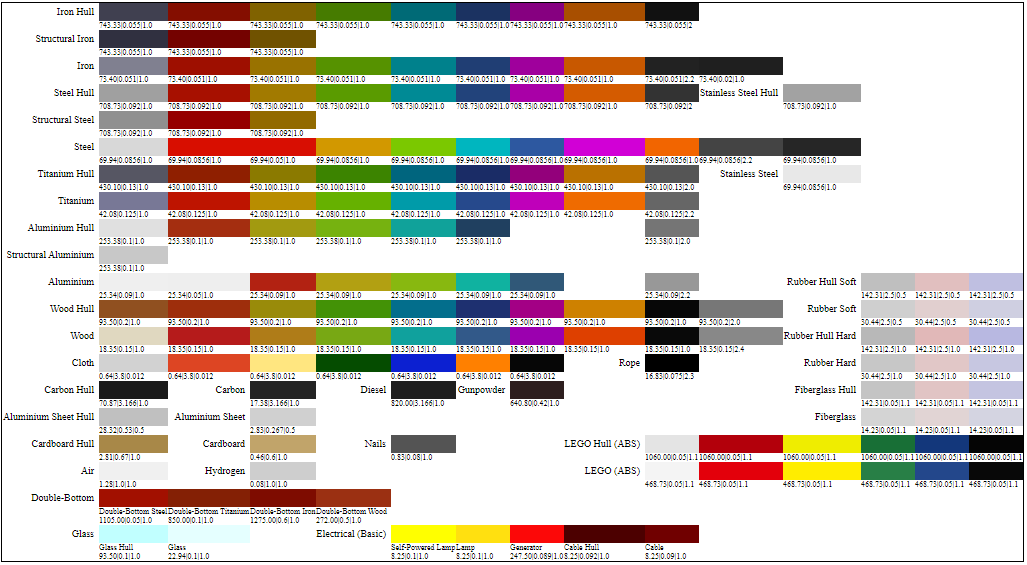
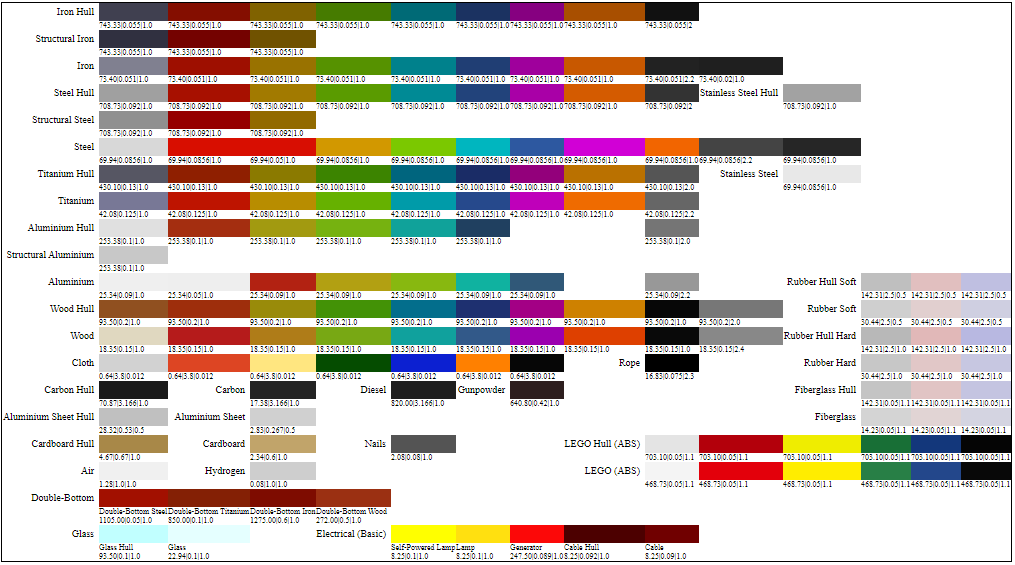
Adjusted LEGO materials; rebuilt template

diff --git a/Scripts/materials_template.html b/Scripts/materials_template.html
@@ -1,1 +1,1 @@
-<html><head><title>Materials Template</title><style>tr.border_top td { border-top:1pt solid black;}</style></head><body><table style='border: 1px solid black' cellpadding=0 cellspacing=1><tr><td valign='middle' align='right' style='padding-right:5px;font-size:10px;'>Lamps</td><td bgcolor='#FFE010'class='border_top' style='width: 50px;'>&nbsp;</td><td bgcolor='#FFE011'class='border_top' style='width: 50px;'>&nbsp;</td><td bgcolor='#DFE010'class='border_top' style='width: 50px;'>&nbsp;</td><td bgcolor='#DFE011'class='border_top' style='width: 50px;'>&nbsp;</td><td bgcolor='#EFE010'class='border_top' style='width: 50px;'>&nbsp;</td><td bgcolor='#EFE011'class='border_top' style='width: 50px;'>&nbsp;</td><td bgcolor='#FFE018'class='border_top' style='width: 50px;'>&nbsp;</td><tr><td/><td style='font-size:8px;'>High Lamp WT</td><td style='font-size:8px;'>High Lamp</td><td style='font-size:8px;'>Low Lamp WT</td><td style='font-size:8px;'>Low Lamp</td><td style='font-size:8px;'>Porthole WT</td><td style='font-size:8px;'>Porthole</td><td style='font-size:8px;'>HR Lamp WT</td></tr><tr><td/><td style='font-size:8px;'></td><td style='font-size:8px;'></td><td style='font-size:8px;'></td><td style='font-size:8px;'></td><td style='font-size:8px;'></td><td style='font-size:8px;'></td><td style='font-size:8px;'></td></tr><tr><td valign='middle' align='right' style='padding-right:5px;font-size:10px;'>Self-Powered Lamps</td><td bgcolor='#FFFF00'class='border_top' style='width: 50px;'>&nbsp;</td><td bgcolor='#FFFF01'class='border_top' style='width: 50px;'>&nbsp;</td><td bgcolor='#DFFF00'class='border_top' style='width: 50px;'>&nbsp;</td><td bgcolor='#DFFF01'class='border_top' style='width: 50px;'>&nbsp;</td><td bgcolor='#EFFF00'class='border_top' style='width: 50px;'>&nbsp;</td><td bgcolor='#EFFF01'class='border_top' style='width: 50px;'>&nbsp;</td><tr><td/><td style='font-size:8px;'>High Lamp WT</td><td style='font-size:8px;'>High Lamp</td><td style='font-size:8px;'>Low Lamp WT</td><td style='font-size:8px;'>Low Lamp</td><td style='font-size:8px;'>Porthole WT</td><td style='font-size:8px;'>Porthole</td></tr><tr><td/><td style='font-size:8px;'></td><td style='font-size:8px;'></td><td style='font-size:8px;'></td><td style='font-size:8px;'></td><td style='font-size:8px;'></td><td style='font-size:8px;'></td></tr><tr><td valign='middle' align='right' style='padding-right:5px;font-size:10px;'>Generators</td><td bgcolor='#FC0808'class='border_top' style='width: 50px;'>&nbsp;</td><td bgcolor='#FC1010'class='border_top' style='width: 50px;'>&nbsp;</td><tr><td/><td style='font-size:8px;'>Generator</td><td style='font-size:8px;'>HR Generator</td></tr><tr><td/><td style='font-size:8px;'></td><td style='font-size:8px;'></td></tr><tr><td valign='middle' align='right' style='padding-right:5px;font-size:10px;'>Cables</td><td bgcolor='#4C0000'class='border_top' style='width: 50px;'>&nbsp;</td><td bgcolor='#700000'class='border_top' style='width: 50px;'>&nbsp;</td><tr><td/><td style='font-size:8px;'>Cable Hull</td><td style='font-size:8px;'>Cable</td></tr><tr><td/><td style='font-size:8px;'></td><td style='font-size:8px;'></td></tr><tr><td valign='middle' align='right' style='padding-right:5px;font-size:10px;'>Switches</td><td bgcolor='#804000'class='border_top' style='width: 50px;'>&nbsp;</td><td bgcolor='#104000'class='border_top' style='width: 50px;'>&nbsp;</td><td bgcolor='#884800'class='border_top' style='width: 50px;'>&nbsp;</td><td bgcolor='#184800'class='border_top' style='width: 50px;'>&nbsp;</td><td bgcolor='#886000'class='border_top' style='width: 50px;'>&nbsp;</td><td bgcolor='#186000'class='border_top' style='width: 50px;'>&nbsp;</td><tr><td/><td style='font-size:8px;'>Toggle Switch ON</td><td style='font-size:8px;'>Toggle Switch OFF</td><td style='font-size:8px;'>Push Switch ON</td><td style='font-size:8px;'>Push Switch OFF</td><td style='font-size:8px;'>Water Switch ON</td><td style='font-size:8px;'>Water Switch OFF</td></tr><tr><td/><td style='font-size:8px;'></td><td style='font-size:8px;'></td><td style='font-size:8px;'></td><td style='font-size:8px;'></td><td style='font-size:8px;'></td><td style='font-size:8px;'></td></tr><tr><td valign='middle' align='right' style='padding-right:5px;font-size:10px;'>Misc</td><td bgcolor='#FC2020'class='border_top' style='width: 50px;'>&nbsp;</td><td bgcolor='#209010'class='border_top' style='width: 50px;'>&nbsp;</td><tr><td/><td style='font-size:8px;'>Heating Element</td><td style='font-size:8px;'>Smoke Emitter</td></tr><tr><td/><td style='font-size:8px;'></td><td style='font-size:8px;'></td></tr></table></body></html>
+<html><head><title>Materials Template</title><style>tr.border_top td { border-top:1pt solid black;}</style></head><body><table style='border: 1px solid black' cellpadding=0 cellspacing=0><tr><td valign='middle' align='right' style='padding-right:5px;font-size:10px;'>Iron Hull</td><td bgcolor='#404050'class='border_top' style='width: 50px;'>&nbsp;</td><td bgcolor='#840E00'class='border_top' style='width: 50px;'>&nbsp;</td><td bgcolor='#806200'class='border_top' style='width: 50px;'>&nbsp;</td><td bgcolor='#467B00'class='border_top' style='width: 50px;'>&nbsp;</td><td bgcolor='#006A76'class='border_top' style='width: 50px;'>&nbsp;</td><td bgcolor='#1B3261'class='border_top' style='width: 50px;'>&nbsp;</td><td bgcolor='#860080'class='border_top' style='width: 50px;'>&nbsp;</td><td bgcolor='#A84F00'class='border_top' style='width: 50px;'>&nbsp;</td><td bgcolor='#111111'class='border_top' style='width: 50px;'>&nbsp;</td><tr><td/><td style='font-size:8px;'></td><td style='font-size:8px;'></td><td style='font-size:8px;'></td><td style='font-size:8px;'></td><td style='font-size:8px;'></td><td style='font-size:8px;'></td><td style='font-size:8px;'></td><td style='font-size:8px;'></td><td style='font-size:8px;'></td></tr><tr><td/><td style='font-size:8px;'>743.33|0.055|1.0</td><td style='font-size:8px;'>743.33|0.055|1.0</td><td style='font-size:8px;'>743.33|0.055|1.0</td><td style='font-size:8px;'>743.33|0.055|1.0</td><td style='font-size:8px;'>743.33|0.055|1.0</td><td style='font-size:8px;'>743.33|0.055|1.0</td><td style='font-size:8px;'>743.33|0.055|1.0</td><td style='font-size:8px;'>743.33|0.055|1.0</td><td style='font-size:8px;'>743.33|0.055|2</td></tr><tr><td valign='middle' align='right' style='padding-right:5px;font-size:10px;'>Structural Iron</td><td bgcolor='#303040'class='border_top' style='width: 50px;'>&nbsp;</td><td bgcolor='#740200'class='border_top' style='width: 50px;'>&nbsp;</td><td bgcolor='#705200'class='border_top' style='width: 50px;'>&nbsp;</td><tr><td/><td style='font-size:8px;'></td><td style='font-size:8px;'></td><td style='font-size:8px;'></td></tr><tr><td/><td style='font-size:8px;'>743.33|0.055|1.0</td><td style='font-size:8px;'>743.33|0.055|1.0</td><td style='font-size:8px;'>743.33|0.055|1.0</td></tr><tr><td valign='middle' align='right' style='padding-right:5px;font-size:10px;'>Iron</td><td bgcolor='#808090'class='border_top' style='width: 50px;'>&nbsp;</td><td bgcolor='#9E0F00'class='border_top' style='width: 50px;'>&nbsp;</td><td bgcolor='#997200'class='border_top' style='width: 50px;'>&nbsp;</td><td bgcolor='#569200'class='border_top' style='width: 50px;'>&nbsp;</td><td bgcolor='#00818C'class='border_top' style='width: 50px;'>&nbsp;</td><td bgcolor='#203E74'class='border_top' style='width: 50px;'>&nbsp;</td><td bgcolor='#9F009C'class='border_top' style='width: 50px;'>&nbsp;</td><td bgcolor='#C85800'class='border_top' style='width: 50px;'>&nbsp;</td><td bgcolor='#222222'class='border_top' style='width: 50px;'>&nbsp;</td><td bgcolor='#1F1F1F'class='border_top' style='width: 50px;'>&nbsp;</td><tr><td/><td style='font-size:8px;'></td><td style='font-size:8px;'></td><td style='font-size:8px;'></td><td style='font-size:8px;'></td><td style='font-size:8px;'></td><td style='font-size:8px;'></td><td style='font-size:8px;'></td><td style='font-size:8px;'></td><td style='font-size:8px;'></td><td style='font-size:8px;'></td></tr><tr><td/><td style='font-size:8px;'>73.40|0.051|1.0</td><td style='font-size:8px;'>73.40|0.051|1.0</td><td style='font-size:8px;'>73.40|0.051|1.0</td><td style='font-size:8px;'>73.40|0.051|1.0</td><td style='font-size:8px;'>73.40|0.051|1.0</td><td style='font-size:8px;'>73.40|0.051|1.0</td><td style='font-size:8px;'>73.40|0.051|1.0</td><td style='font-size:8px;'>73.40|0.051|1.0</td><td style='font-size:8px;'>73.40|0.051|2.2</td><td style='font-size:8px;'>73.40|0.02|1.0</td></tr><tr><td valign='middle' align='right' style='padding-right:5px;font-size:10px;'>Steel Hull</td><td bgcolor='#A0A0A0'class='border_top' style='width: 50px;'>&nbsp;</td><td bgcolor='#A71000'class='border_top' style='width: 50px;'>&nbsp;</td><td bgcolor='#A27A00'class='border_top' style='width: 50px;'>&nbsp;</td><td bgcolor='#5A9B00'class='border_top' style='width: 50px;'>&nbsp;</td><td bgcolor='#008A95'class='border_top' style='width: 50px;'>&nbsp;</td><td bgcolor='#22437B'class='border_top' style='width: 50px;'>&nbsp;</td><td bgcolor='#A900A7'class='border_top' style='width: 50px;'>&nbsp;</td><td bgcolor='#D45B00'class='border_top' style='width: 50px;'>&nbsp;</td><td bgcolor='#333333'class='border_top' style='width: 50px;'>&nbsp;</td><td valign='middle' align='right' style='padding-right:5px;font-size:10px;'>Stainless Steel Hull</td><td bgcolor='#A2A2A2'class='border_top' style='width: 50px;'>&nbsp;</td><tr><td/><td style='font-size:8px;'></td><td style='font-size:8px;'></td><td style='font-size:8px;'></td><td style='font-size:8px;'></td><td style='font-size:8px;'></td><td style='font-size:8px;'></td><td style='font-size:8px;'></td><td style='font-size:8px;'></td><td style='font-size:8px;'></td><td/><td style='font-size:8px;'></td></tr><tr><td/><td style='font-size:8px;'>708.73|0.092|1.0</td><td style='font-size:8px;'>708.73|0.092|1.0</td><td style='font-size:8px;'>708.73|0.092|1.0</td><td style='font-size:8px;'>708.73|0.092|1.0</td><td style='font-size:8px;'>708.73|0.092|1.0</td><td style='font-size:8px;'>708.73|0.092|1.0</td><td style='font-size:8px;'>708.73|0.092|1.0</td><td style='font-size:8px;'>708.73|0.092|1.0</td><td style='font-size:8px;'>708.73|0.092|2</td><td/><td style='font-size:8px;'>708.73|0.092|1.0</td></tr><tr><td valign='middle' align='right' style='padding-right:5px;font-size:10px;'>Structural Steel</td><td bgcolor='#909090'class='border_top' style='width: 50px;'>&nbsp;</td><td bgcolor='#950000'class='border_top' style='width: 50px;'>&nbsp;</td><td bgcolor='#926A00'class='border_top' style='width: 50px;'>&nbsp;</td><tr><td/><td style='font-size:8px;'></td><td style='font-size:8px;'></td><td style='font-size:8px;'></td></tr><tr><td/><td style='font-size:8px;'>708.73|0.092|1.0</td><td style='font-size:8px;'>708.73|0.092|1.0</td><td style='font-size:8px;'>708.73|0.092|1.0</td></tr><tr><td valign='middle' align='right' style='padding-right:5px;font-size:10px;'>Steel</td><td bgcolor='#D8D8D8'class='border_top' style='width: 50px;'>&nbsp;</td><td bgcolor='#D80E00'class='border_top' style='width: 50px;'>&nbsp;</td><td bgcolor='#D80E02'class='border_top' style='width: 50px;'>&nbsp;</td><td bgcolor='#D29800'class='border_top' style='width: 50px;'>&nbsp;</td><td bgcolor='#7BC800'class='border_top' style='width: 50px;'>&nbsp;</td><td bgcolor='#00B6BF'class='border_top' style='width: 50px;'>&nbsp;</td><td bgcolor='#2D58A0'class='border_top' style='width: 50px;'>&nbsp;</td><td bgcolor='#D100D6'class='border_top' style='width: 50px;'>&nbsp;</td><td bgcolor='#F26500'class='border_top' style='width: 50px;'>&nbsp;</td><td bgcolor='#444444'class='border_top' style='width: 50px;'>&nbsp;</td><td bgcolor='#262626'class='border_top' style='width: 50px;'>&nbsp;</td><tr><td/><td style='font-size:8px;'></td><td style='font-size:8px;'></td><td style='font-size:8px;'></td><td style='font-size:8px;'></td><td style='font-size:8px;'></td><td style='font-size:8px;'></td><td style='font-size:8px;'></td><td style='font-size:8px;'></td><td style='font-size:8px;'></td><td style='font-size:8px;'></td><td style='font-size:8px;'></td></tr><tr><td/><td style='font-size:8px;'>69.94|0.0856|1.0</td><td style='font-size:8px;'>69.94|0.0856|1.0</td><td style='font-size:8px;'>69.94|0.05|1.0</td><td style='font-size:8px;'>69.94|0.0856|1.0</td><td style='font-size:8px;'>69.94|0.0856|1.0</td><td style='font-size:8px;'>69.94|0.0856|1.0</td><td style='font-size:8px;'>69.94|0.0856|1.0</td><td style='font-size:8px;'>69.94|0.0856|1.0</td><td style='font-size:8px;'>69.94|0.0856|1.0</td><td style='font-size:8px;'>69.94|0.0856|2.2</td><td style='font-size:8px;'>69.94|0.0856|1.0</td></tr><tr><td valign='middle' align='right' style='padding-right:5px;font-size:10px;'>Titanium Hull</td><td bgcolor='#565663'class='border_top' style='width: 50px;'>&nbsp;</td><td bgcolor='#8F1F00'class='border_top' style='width: 50px;'>&nbsp;</td><td bgcolor='#8B7A00'class='border_top' style='width: 50px;'>&nbsp;</td><td bgcolor='#3C8400'class='border_top' style='width: 50px;'>&nbsp;</td><td bgcolor='#00657E'class='border_top' style='width: 50px;'>&nbsp;</td><td bgcolor='#1A2C66'class='border_top' style='width: 50px;'>&nbsp;</td><td bgcolor='#93007B'class='border_top' style='width: 50px;'>&nbsp;</td><td bgcolor='#BA7100'class='border_top' style='width: 50px;'>&nbsp;</td><td bgcolor='#555555'class='border_top' style='width: 50px;'>&nbsp;</td><td valign='middle' align='right' style='padding-right:5px;font-size:10px;'>Stainless Steel</td><td bgcolor='#E8E8E8'class='border_top' style='width: 50px;'>&nbsp;</td><tr><td/><td style='font-size:8px;'></td><td style='font-size:8px;'></td><td style='font-size:8px;'></td><td style='font-size:8px;'></td><td style='font-size:8px;'></td><td style='font-size:8px;'></td><td style='font-size:8px;'></td><td style='font-size:8px;'></td><td style='font-size:8px;'></td><td/><td style='font-size:8px;'></td></tr><tr><td/><td style='font-size:8px;'>430.10|0.13|1.0</td><td style='font-size:8px;'>430.10|0.13|1.0</td><td style='font-size:8px;'>430.10|0.13|1.0</td><td style='font-size:8px;'>430.10|0.13|1.0</td><td style='font-size:8px;'>430.10|0.13|1.0</td><td style='font-size:8px;'>430.10|0.13|1.0</td><td style='font-size:8px;'>430.10|0.13|1.0</td><td style='font-size:8px;'>430.10|0.13|1.0</td><td style='font-size:8px;'>430.10|0.13|2.0</td><td/><td style='font-size:8px;'>69.94|0.0856|1.0</td></tr><tr><td valign='middle' align='right' style='padding-right:5px;font-size:10px;'>Titanium</td><td bgcolor='#787896'class='border_top' style='width: 50px;'>&nbsp;</td><td bgcolor='#BE1400'class='border_top' style='width: 50px;'>&nbsp;</td><td bgcolor='#B88D00'class='border_top' style='width: 50px;'>&nbsp;</td><td bgcolor='#66B100'class='border_top' style='width: 50px;'>&nbsp;</td><td bgcolor='#009BA9'class='border_top' style='width: 50px;'>&nbsp;</td><td bgcolor='#26498C'class='border_top' style='width: 50px;'>&nbsp;</td><td bgcolor='#BF00BA'class='border_top' style='width: 50px;'>&nbsp;</td><td bgcolor='#EF6B00'class='border_top' style='width: 50px;'>&nbsp;</td><td bgcolor='#666666'class='border_top' style='width: 50px;'>&nbsp;</td><tr><td/><td style='font-size:8px;'></td><td style='font-size:8px;'></td><td style='font-size:8px;'></td><td style='font-size:8px;'></td><td style='font-size:8px;'></td><td style='font-size:8px;'></td><td style='font-size:8px;'></td><td style='font-size:8px;'></td><td style='font-size:8px;'></td></tr><tr><td/><td style='font-size:8px;'>42.08|0.125|1.0</td><td style='font-size:8px;'>42.08|0.125|1.0</td><td style='font-size:8px;'>42.08|0.125|1.0</td><td style='font-size:8px;'>42.08|0.125|1.0</td><td style='font-size:8px;'>42.08|0.125|1.0</td><td style='font-size:8px;'>42.08|0.125|1.0</td><td style='font-size:8px;'>42.08|0.125|1.0</td><td style='font-size:8px;'>42.08|0.125|1.0</td><td style='font-size:8px;'>42.08|0.125|2.2</td></tr><tr><td valign='middle' align='right' style='padding-right:5px;font-size:10px;'>Aluminium Hull</td><td bgcolor='#E0E0E0'class='border_top' style='width: 50px;'>&nbsp;</td><td bgcolor='#A42E10'class='border_top' style='width: 50px;'>&nbsp;</td><td bgcolor='#A29A10'class='border_top' style='width: 50px;'>&nbsp;</td><td bgcolor='#76B210'class='border_top' style='width: 50px;'>&nbsp;</td><td bgcolor='#10A29A'class='border_top' style='width: 50px;'>&nbsp;</td><td bgcolor='#204060'class='border_top' style='width: 50px;'>&nbsp;</td><td style='width: 50px;'>&nbsp;</td><td style='width: 50px;'>&nbsp;</td><td bgcolor='#757575'class='border_top' style='width: 50px;'>&nbsp;</td><tr><td/><td style='font-size:8px;'></td><td style='font-size:8px;'></td><td style='font-size:8px;'></td><td style='font-size:8px;'></td><td style='font-size:8px;'></td><td style='font-size:8px;'></td><td/><td/><td style='font-size:8px;'></td></tr><tr><td/><td style='font-size:8px;'>253.38|0.1|1.0</td><td style='font-size:8px;'>253.38|0.1|1.0</td><td style='font-size:8px;'>253.38|0.1|1.0</td><td style='font-size:8px;'>253.38|0.1|1.0</td><td style='font-size:8px;'>253.38|0.1|1.0</td><td style='font-size:8px;'>253.38|0.1|1.0</td><td/><td/><td style='font-size:8px;'>253.38|0.1|2.0</td></tr><tr><td valign='middle' align='right' style='padding-right:5px;font-size:10px;'>Structural Aluminium</td><td bgcolor='#C8C8C8'class='border_top' style='width: 50px;'>&nbsp;</td><tr><td/><td style='font-size:8px;'></td></tr><tr><td/><td style='font-size:8px;'>253.38|0.1|1.0</td></tr><tr><td valign='middle' align='right' style='padding-right:5px;font-size:10px;'>Aluminium</td><td bgcolor='#EFEFEF'class='border_top' style='width: 50px;'>&nbsp;</td><td bgcolor='#EEEEEE'class='border_top' style='width: 50px;'>&nbsp;</td><td bgcolor='#B22212'class='border_top' style='width: 50px;'>&nbsp;</td><td bgcolor='#B2A012'class='border_top' style='width: 50px;'>&nbsp;</td><td bgcolor='#88B810'class='border_top' style='width: 50px;'>&nbsp;</td><td bgcolor='#10B2A0'class='border_top' style='width: 50px;'>&nbsp;</td><td bgcolor='#305878'class='border_top' style='width: 50px;'>&nbsp;</td><td style='width: 50px;'>&nbsp;</td><td bgcolor='#989898'class='border_top' style='width: 50px;'>&nbsp;</td><td style='width: 50px;'>&nbsp;</td><td valign='middle' align='right' style='padding-right:5px;font-size:10px;'>Rubber Hull Soft</td><td bgcolor='#BFBFBF'class='border_top' style='width: 50px;'>&nbsp;</td><td bgcolor='#E1BFBF'class='border_top' style='width: 50px;'>&nbsp;</td><td bgcolor='#BFBFE1'class='border_top' style='width: 50px;'>&nbsp;</td><tr><td/><td style='font-size:8px;'></td><td style='font-size:8px;'></td><td style='font-size:8px;'></td><td style='font-size:8px;'></td><td style='font-size:8px;'></td><td style='font-size:8px;'></td><td style='font-size:8px;'></td><td/><td style='font-size:8px;'></td><td/><td/><td style='font-size:8px;'></td><td style='font-size:8px;'></td><td style='font-size:8px;'></td></tr><tr><td/><td style='font-size:8px;'>25.34|0.09|1.0</td><td style='font-size:8px;'>25.34|0.05|1.0</td><td style='font-size:8px;'>25.34|0.09|1.0</td><td style='font-size:8px;'>25.34|0.09|1.0</td><td style='font-size:8px;'>25.34|0.09|1.0</td><td style='font-size:8px;'>25.34|0.09|1.0</td><td style='font-size:8px;'>25.34|0.09|1.0</td><td/><td style='font-size:8px;'>25.34|0.09|2.2</td><td/><td/><td style='font-size:8px;'>142.31|2.5|0.5</td><td style='font-size:8px;'>142.31|2.5|0.5</td><td style='font-size:8px;'>142.31|2.5|0.5</td></tr><tr><td valign='middle' align='right' style='padding-right:5px;font-size:10px;'>Wood Hull</td><td bgcolor='#905020'class='border_top' style='width: 50px;'>&nbsp;</td><td bgcolor='#9E2E0C'class='border_top' style='width: 50px;'>&nbsp;</td><td bgcolor='#998B0A'class='border_top' style='width: 50px;'>&nbsp;</td><td bgcolor='#439206'class='border_top' style='width: 50px;'>&nbsp;</td><td bgcolor='#036E8C'class='border_top' style='width: 50px;'>&nbsp;</td><td bgcolor='#1E3070'class='border_top' style='width: 50px;'>&nbsp;</td><td bgcolor='#A30085'class='border_top' style='width: 50px;'>&nbsp;</td><td bgcolor='#CE8100'class='border_top' style='width: 50px;'>&nbsp;</td><td bgcolor='#070707'class='border_top' style='width: 50px;'>&nbsp;</td><td bgcolor='#777777'class='border_top' style='width: 50px;'>&nbsp;</td><td valign='middle' align='right' style='padding-right:5px;font-size:10px;'>Rubber Soft</td><td bgcolor='#CFCFCF'class='border_top' style='width: 50px;'>&nbsp;</td><td bgcolor='#E1CFCF'class='border_top' style='width: 50px;'>&nbsp;</td><td bgcolor='#CFCFE1'class='border_top' style='width: 50px;'>&nbsp;</td><tr><td/><td style='font-size:8px;'></td><td style='font-size:8px;'></td><td style='font-size:8px;'></td><td style='font-size:8px;'></td><td style='font-size:8px;'></td><td style='font-size:8px;'></td><td style='font-size:8px;'></td><td style='font-size:8px;'></td><td style='font-size:8px;'></td><td style='font-size:8px;'></td><td/><td style='font-size:8px;'></td><td style='font-size:8px;'></td><td style='font-size:8px;'></td></tr><tr><td/><td style='font-size:8px;'>93.50|0.2|1.0</td><td style='font-size:8px;'>93.50|0.2|1.0</td><td style='font-size:8px;'>93.50|0.2|1.0</td><td style='font-size:8px;'>93.50|0.2|1.0</td><td style='font-size:8px;'>93.50|0.2|1.0</td><td style='font-size:8px;'>93.50|0.2|1.0</td><td style='font-size:8px;'>93.50|0.2|1.0</td><td style='font-size:8px;'>93.50|0.2|1.0</td><td style='font-size:8px;'>93.50|0.2|1.0</td><td style='font-size:8px;'>93.50|0.2|2.0</td><td/><td style='font-size:8px;'>30.44|2.5|0.5</td><td style='font-size:8px;'>30.44|2.5|0.5</td><td style='font-size:8px;'>30.44|2.5|0.5</td></tr><tr><td valign='middle' align='right' style='padding-right:5px;font-size:10px;'>Wood</td><td bgcolor='#E0D8C0'class='border_top' style='width: 50px;'>&nbsp;</td><td bgcolor='#B51B1B'class='border_top' style='width: 50px;'>&nbsp;</td><td bgcolor='#AF7C18'class='border_top' style='width: 50px;'>&nbsp;</td><td bgcolor='#78A814'class='border_top' style='width: 50px;'>&nbsp;</td><td bgcolor='#10A19D'class='border_top' style='width: 50px;'>&nbsp;</td><td bgcolor='#325989'class='border_top' style='width: 50px;'>&nbsp;</td><td bgcolor='#9B00AF'class='border_top' style='width: 50px;'>&nbsp;</td><td bgcolor='#DE4000'class='border_top' style='width: 50px;'>&nbsp;</td><td bgcolor='#090909'class='border_top' style='width: 50px;'>&nbsp;</td><td bgcolor='#888888'class='border_top' style='width: 50px;'>&nbsp;</td><td valign='middle' align='right' style='padding-right:5px;font-size:10px;'>Rubber Hull Hard</td><td bgcolor='#B8B8B8'class='border_top' style='width: 50px;'>&nbsp;</td><td bgcolor='#E1B8B8'class='border_top' style='width: 50px;'>&nbsp;</td><td bgcolor='#B8B8E1'class='border_top' style='width: 50px;'>&nbsp;</td><tr><td/><td style='font-size:8px;'></td><td style='font-size:8px;'></td><td style='font-size:8px;'></td><td style='font-size:8px;'></td><td style='font-size:8px;'></td><td style='font-size:8px;'></td><td style='font-size:8px;'></td><td style='font-size:8px;'></td><td style='font-size:8px;'></td><td style='font-size:8px;'></td><td/><td style='font-size:8px;'></td><td style='font-size:8px;'></td><td style='font-size:8px;'></td></tr><tr><td/><td style='font-size:8px;'>18.35|0.15|1.0</td><td style='font-size:8px;'>18.35|0.15|1.0</td><td style='font-size:8px;'>18.35|0.15|1.0</td><td style='font-size:8px;'>18.35|0.15|1.0</td><td style='font-size:8px;'>18.35|0.15|1.0</td><td style='font-size:8px;'>18.35|0.15|1.0</td><td style='font-size:8px;'>18.35|0.15|1.0</td><td style='font-size:8px;'>18.35|0.15|1.0</td><td style='font-size:8px;'>18.35|0.15|1.0</td><td style='font-size:8px;'>18.35|0.15|2.4</td><td/><td style='font-size:8px;'>142.31|2.5|1.0</td><td style='font-size:8px;'>142.31|2.5|1.0</td><td style='font-size:8px;'>142.31|2.5|1.0</td></tr><tr><td valign='middle' align='right' style='padding-right:5px;font-size:10px;'>Cloth</td><td bgcolor='#D2D2D2'class='border_top' style='width: 50px;'>&nbsp;</td><td bgcolor='#DD4523'class='border_top' style='width: 50px;'>&nbsp;</td><td bgcolor='#FFE680'class='border_top' style='width: 50px;'>&nbsp;</td><td bgcolor='#054C00'class='border_top' style='width: 50px;'>&nbsp;</td><td bgcolor='#0C20D1'class='border_top' style='width: 50px;'>&nbsp;</td><td bgcolor='#FF8000'class='border_top' style='width: 50px;'>&nbsp;</td><td bgcolor='#060606'class='border_top' style='width: 50px;'>&nbsp;</td><td valign='middle' align='right' style='padding-right:5px;font-size:10px;'>Rope</td><td bgcolor='#000000'class='border_top' style='width: 50px;'>&nbsp;</td><td style='width: 50px;'>&nbsp;</td><td valign='middle' align='right' style='padding-right:5px;font-size:10px;'>Rubber Hard</td><td bgcolor='#C7C7C7'class='border_top' style='width: 50px;'>&nbsp;</td><td bgcolor='#E1C7C7'class='border_top' style='width: 50px;'>&nbsp;</td><td bgcolor='#C7C7E1'class='border_top' style='width: 50px;'>&nbsp;</td><tr><td/><td style='font-size:8px;'></td><td style='font-size:8px;'></td><td style='font-size:8px;'></td><td style='font-size:8px;'></td><td style='font-size:8px;'></td><td style='font-size:8px;'></td><td style='font-size:8px;'></td><td/><td style='font-size:8px;'></td><td/><td/><td style='font-size:8px;'></td><td style='font-size:8px;'></td><td style='font-size:8px;'></td></tr><tr><td/><td style='font-size:8px;'>0.64|3.8|0.012</td><td style='font-size:8px;'>0.64|3.8|0.012</td><td style='font-size:8px;'>0.64|3.8|0.012</td><td style='font-size:8px;'>0.64|3.8|0.012</td><td style='font-size:8px;'>0.64|3.8|0.012</td><td style='font-size:8px;'>0.64|3.8|0.012</td><td style='font-size:8px;'>0.64|3.8|0.012</td><td/><td style='font-size:8px;'>16.83|0.075|2.3</td><td/><td/><td style='font-size:8px;'>30.44|2.5|1.0</td><td style='font-size:8px;'>30.44|2.5|1.0</td><td style='font-size:8px;'>30.44|2.5|1.0</td></tr><tr><td valign='middle' align='right' style='padding-right:5px;font-size:10px;'>Carbon Hull</td><td bgcolor='#1A1A1A'class='border_top' style='width: 50px;'>&nbsp;</td><td valign='middle' align='right' style='padding-right:5px;font-size:10px;'>Carbon</td><td bgcolor='#232323'class='border_top' style='width: 50px;'>&nbsp;</td><td valign='middle' align='right' style='padding-right:5px;font-size:10px;'>Diesel</td><td bgcolor='#1E1E1E'class='border_top' style='width: 50px;'>&nbsp;</td><td valign='middle' align='right' style='padding-right:5px;font-size:10px;'>Gunpowder</td><td bgcolor='#2E1E1E'class='border_top' style='width: 50px;'>&nbsp;</td><td style='width: 50px;'>&nbsp;</td><td style='width: 50px;'>&nbsp;</td><td style='width: 50px;'>&nbsp;</td><td valign='middle' align='right' style='padding-right:5px;font-size:10px;'>Fiberglass Hull</td><td bgcolor='#C4C4C4'class='border_top' style='width: 50px;'>&nbsp;</td><td bgcolor='#E1C4C4'class='border_top' style='width: 50px;'>&nbsp;</td><td bgcolor='#C4C4E1'class='border_top' style='width: 50px;'>&nbsp;</td><tr><td/><td style='font-size:8px;'></td><td/><td style='font-size:8px;'></td><td/><td style='font-size:8px;'></td><td/><td style='font-size:8px;'></td><td/><td/><td/><td/><td style='font-size:8px;'></td><td style='font-size:8px;'></td><td style='font-size:8px;'></td></tr><tr><td/><td style='font-size:8px;'>70.87|3.166|1.0</td><td/><td style='font-size:8px;'>17.38|3.166|1.0</td><td/><td style='font-size:8px;'>820.00|3.166|1.0</td><td/><td style='font-size:8px;'>640.80|0.42|1.0</td><td/><td/><td/><td/><td style='font-size:8px;'>142.31|0.05|1.1</td><td style='font-size:8px;'>142.31|0.05|1.1</td><td style='font-size:8px;'>142.31|0.05|1.1</td></tr><tr><td valign='middle' align='right' style='padding-right:5px;font-size:10px;'>Aluminium Sheet Hull</td><td bgcolor='#C0C0C0'class='border_top' style='width: 50px;'>&nbsp;</td><td valign='middle' align='right' style='padding-right:5px;font-size:10px;'>Aluminium Sheet</td><td bgcolor='#D0D0D0'class='border_top' style='width: 50px;'>&nbsp;</td><td style='width: 50px;'>&nbsp;</td><td style='width: 50px;'>&nbsp;</td><td style='width: 50px;'>&nbsp;</td><td style='width: 50px;'>&nbsp;</td><td style='width: 50px;'>&nbsp;</td><td style='width: 50px;'>&nbsp;</td><td style='width: 50px;'>&nbsp;</td><td valign='middle' align='right' style='padding-right:5px;font-size:10px;'>Fiberglass</td><td bgcolor='#D4D4D4'class='border_top' style='width: 50px;'>&nbsp;</td><td bgcolor='#E1D4D4'class='border_top' style='width: 50px;'>&nbsp;</td><td bgcolor='#D4D4E1'class='border_top' style='width: 50px;'>&nbsp;</td><tr><td/><td style='font-size:8px;'></td><td/><td style='font-size:8px;'></td><td/><td/><td/><td/><td/><td/><td/><td/><td style='font-size:8px;'></td><td style='font-size:8px;'></td><td style='font-size:8px;'></td></tr><tr><td/><td style='font-size:8px;'>28.32|0.53|0.5</td><td/><td style='font-size:8px;'>2.83|0.267|0.5</td><td/><td/><td/><td/><td/><td/><td/><td/><td style='font-size:8px;'>14.23|0.05|1.1</td><td style='font-size:8px;'>14.23|0.05|1.1</td><td style='font-size:8px;'>14.23|0.05|1.1</td></tr><tr><td valign='middle' align='right' style='padding-right:5px;font-size:10px;'>Cardboard Hull</td><td bgcolor='#A88848'class='border_top' style='width: 50px;'>&nbsp;</td><td valign='middle' align='right' style='padding-right:5px;font-size:10px;'>Cardboard</td><td bgcolor='#C1A46A'class='border_top' style='width: 50px;'>&nbsp;</td><td valign='middle' align='right' style='padding-right:5px;font-size:10px;'>Nails</td><td bgcolor='#545454'class='border_top' style='width: 50px;'>&nbsp;</td><td style='width: 50px;'>&nbsp;</td><td style='width: 50px;'>&nbsp;</td><td valign='middle' align='right' style='padding-right:5px;font-size:10px;'>LEGO Hull (ABS)</td><td bgcolor='#E4E4E4'class='border_top' style='width: 50px;'>&nbsp;</td><td bgcolor='#B3000B'class='border_top' style='width: 50px;'>&nbsp;</td><td bgcolor='#EFED00'class='border_top' style='width: 50px;'>&nbsp;</td><td bgcolor='#186F36'class='border_top' style='width: 50px;'>&nbsp;</td><td bgcolor='#13377B'class='border_top' style='width: 50px;'>&nbsp;</td><td bgcolor='#050505'class='border_top' style='width: 50px;'>&nbsp;</td><tr><td/><td style='font-size:8px;'></td><td/><td style='font-size:8px;'></td><td/><td style='font-size:8px;'></td><td/><td/><td/><td style='font-size:8px;'></td><td style='font-size:8px;'></td><td style='font-size:8px;'></td><td style='font-size:8px;'></td><td style='font-size:8px;'></td><td style='font-size:8px;'></td></tr><tr><td/><td style='font-size:8px;'>4.67|0.67|1.0</td><td/><td style='font-size:8px;'>2.34|0.6|1.0</td><td/><td style='font-size:8px;'>2.08|0.08|1.0</td><td/><td/><td/><td style='font-size:8px;'>703.10|0.05|1.1</td><td style='font-size:8px;'>703.10|0.05|1.1</td><td style='font-size:8px;'>703.10|0.05|1.1</td><td style='font-size:8px;'>703.10|0.05|1.1</td><td style='font-size:8px;'>703.10|0.05|1.1</td><td style='font-size:8px;'>703.10|0.05|1.1</td></tr><tr><td valign='middle' align='right' style='padding-right:5px;font-size:10px;'>Air</td><td bgcolor='#F0F0F0'class='border_top' style='width: 50px;'>&nbsp;</td><td valign='middle' align='right' style='padding-right:5px;font-size:10px;'>Hydrogen</td><td bgcolor='#CECECE'class='border_top' style='width: 50px;'>&nbsp;</td><td style='width: 50px;'>&nbsp;</td><td style='width: 50px;'>&nbsp;</td><td style='width: 50px;'>&nbsp;</td><td style='width: 50px;'>&nbsp;</td><td valign='middle' align='right' style='padding-right:5px;font-size:10px;'>LEGO (ABS)</td><td bgcolor='#F4F4F4'class='border_top' style='width: 50px;'>&nbsp;</td><td bgcolor='#E3000B'class='border_top' style='width: 50px;'>&nbsp;</td><td bgcolor='#FFED00'class='border_top' style='width: 50px;'>&nbsp;</td><td bgcolor='#287F46'class='border_top' style='width: 50px;'>&nbsp;</td><td bgcolor='#23478B'class='border_top' style='width: 50px;'>&nbsp;</td><td bgcolor='#080808'class='border_top' style='width: 50px;'>&nbsp;</td><tr><td/><td style='font-size:8px;'></td><td/><td style='font-size:8px;'></td><td/><td/><td/><td/><td/><td style='font-size:8px;'></td><td style='font-size:8px;'></td><td style='font-size:8px;'></td><td style='font-size:8px;'></td><td style='font-size:8px;'></td><td style='font-size:8px;'></td></tr><tr><td/><td style='font-size:8px;'>1.28|1.0|1.0</td><td/><td style='font-size:8px;'>0.08|1.0|1.0</td><td/><td/><td/><td/><td/><td style='font-size:8px;'>468.73|0.05|1.1</td><td style='font-size:8px;'>468.73|0.05|1.1</td><td style='font-size:8px;'>468.73|0.05|1.1</td><td style='font-size:8px;'>468.73|0.05|1.1</td><td style='font-size:8px;'>468.73|0.05|1.1</td><td style='font-size:8px;'>468.73|0.05|1.1</td></tr><tr><td valign='middle' align='right' style='padding-right:5px;font-size:10px;'>Double-Bottom</td><td bgcolor='#A21000'class='border_top' style='width: 50px;'>&nbsp;</td><td bgcolor='#842005'class='border_top' style='width: 50px;'>&nbsp;</td><td bgcolor='#7E0C00'class='border_top' style='width: 50px;'>&nbsp;</td><td bgcolor='#9B3012'class='border_top' style='width: 50px;'>&nbsp;</td><tr><td/><td style='font-size:8px;'>Double-Bottom Steel</td><td style='font-size:8px;'>Double-Bottom Titanium</td><td style='font-size:8px;'>Double-Bottom Iron</td><td style='font-size:8px;'>Double-Bottom Wood</td></tr><tr><td/><td style='font-size:8px;'>1105.00|0.05|1.0</td><td style='font-size:8px;'>850.00|0.1|1.0</td><td style='font-size:8px;'>1275.00|0.6|1.0</td><td style='font-size:8px;'>272.00|0.5|1.0</td></tr><tr><td valign='middle' align='right' style='padding-right:5px;font-size:10px;'>Glass</td><td bgcolor='#C1FFFF'class='border_top' style='width: 50px;'>&nbsp;</td><td bgcolor='#E5FFFF'class='border_top' style='width: 50px;'>&nbsp;</td><td style='width: 50px;'>&nbsp;</td><td valign='middle' align='right' style='padding-right:5px;font-size:10px;'>Electrical (Basic)</td><td bgcolor='#FFFF00'class='border_top' style='width: 50px;'>&nbsp;</td><td bgcolor='#FFE010'class='border_top' style='width: 50px;'>&nbsp;</td><td bgcolor='#FC0808'class='border_top' style='width: 50px;'>&nbsp;</td><td bgcolor='#4C0000'class='border_top' style='width: 50px;'>&nbsp;</td><td bgcolor='#700000'class='border_top' style='width: 50px;'>&nbsp;</td><tr><td/><td style='font-size:8px;'>Glass Hull</td><td style='font-size:8px;'>Glass</td><td/><td/><td style='font-size:8px;'>Self-Powered Lamp</td><td style='font-size:8px;'>Lamp</td><td style='font-size:8px;'>Generator</td><td style='font-size:8px;'>Cable Hull</td><td style='font-size:8px;'>Cable</td></tr><tr><td/><td style='font-size:8px;'>93.50|0.1|1.0</td><td style='font-size:8px;'>22.94|0.1|1.0</td><td/><td/><td style='font-size:8px;'>8.25|0.1|1.0</td><td style='font-size:8px;'>8.25|0.1|1.0</td><td style='font-size:8px;'>247.50|0.089|1.0</td><td style='font-size:8px;'>8.25|0.092|1.0</td><td style='font-size:8px;'>8.25|0.09|1.0</td></tr></table></body></html>
